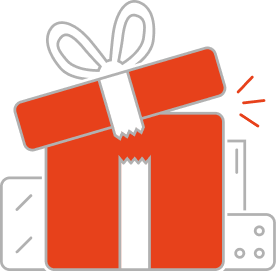
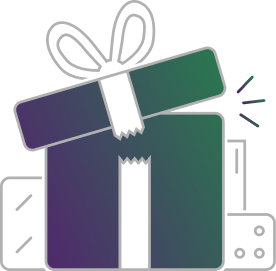
content creator home page debugging

diff --git a/src/css/ContentHome/content.css b/src/css/ContentHome/content.css
@@ -20,11 +20,11 @@
   text-align: left;
 }
 .textH1 {
-  font-size: 3em;
+  font-size: 56px;
   font-weight: 800;
 }
 .textonP {
-  font-size: 23px;
+  font-size: 22px;
   margin-top: 500px;
   padding: 5px 0px 5px 0px;
   margin: 15px 0px 0px 0px;
@@ -33,7 +33,7 @@
 .textonbutton {
   padding: 10px 16px;
   border: none;
-  margin: 35px auto 30px auto;
+  margin: 107px auto 30px auto;
   background: linear-gradient(65.06deg, #662f88 9.05%, #20bf55 131.69%);
   color: #ffffff;
   font-weight: 600;
@@ -41,7 +41,6 @@
   border-radius: 4px;
   cursor: pointer;
   font-size: 16px;
-  font-family: "mulish";
 }
 .textonbutton:hover {
   background: none;

diff --git a/src/components/content/HappyInstructor.js b/src/components/content/HappyInstructor.js
@@ -23,7 +23,7 @@ const HappyInstructor = () => {
         <div className="happy_container">
           <div className="happy_box">
             <div className="happy_col1">
-              <h2 className="happy_col1h2">Happy Instructor</h2>
+              <h2 className="happy_col1h2">Happy Instructors</h2>
               <p className="happy_col1p">
                 Feedback from these happy customers <br />
                 helps us in reaching the heights

diff --git a/src/css/ContentHome/HowToTech.css b/src/css/ContentHome/HowToTech.css
@@ -22,7 +22,8 @@
   width: 100%;
 }
 .Getstarted22 {
-  /* margin-top: 163px; */
+  margin-top: 140px;
+  margin-left: 23%;
 }
 .Getstaredgrid22 {
   display: flex;
@@ -61,7 +62,8 @@
   position: relative;
   width: 60%;
   padding: 0px 0px 0 0px;
-  right: 98px;
+  right: -41px;
+  top: 91px;
   opacity: 0.9;
 }
 .rightdiv2 {

diff --git a/src/css/blog/BlogFooter.css b/src/css/blog/BlogFooter.css
@@ -93,8 +93,8 @@
   color: #fff;
   padding: 13px 65px;
   width: 100%;
-  display: flex;
-  justify-content: right;
+
+  text-align: right;
   font-family: "Maven Pro", sans-serif;
 }
 .imgIcon {

diff --git a/src/css/ContentHome/WhyTech.css b/src/css/ContentHome/WhyTech.css
@@ -43,6 +43,7 @@
   padding-bottom: 50px;
   text-align: left;
   padding-right: 100px;
+  margin-left: 47px;
   /* padding: 0; */
   /* padding-right: 0 !important; */
 }
